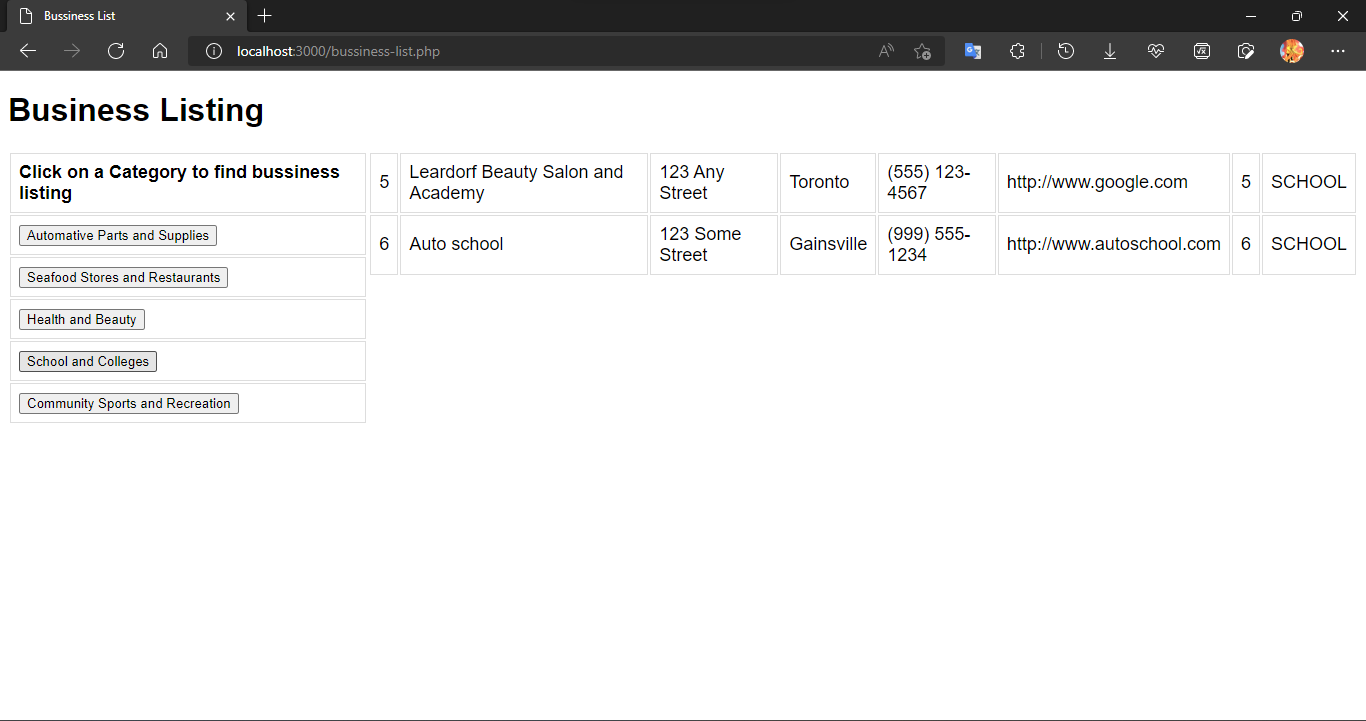
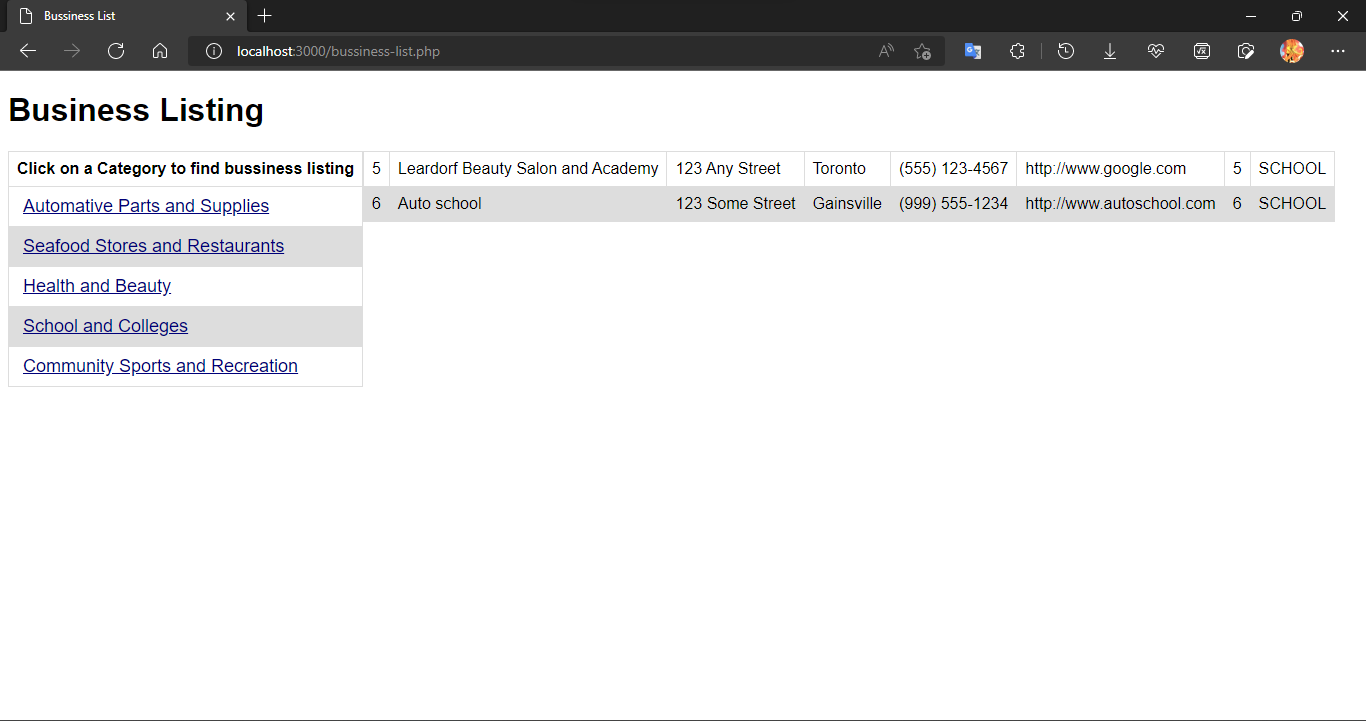
Lab 4 4.2 4.3 4.4 4.5

Changed region(s): [[0.0, 0.2136, 0.9839, 0.5798]]

diff --git a/Lab 04/4.4/business.php b/Lab 04/4.4/business.php
@@ -5,14 +5,14 @@
     <title>Business Registration</title>
 </head>
 <?php
+session_start();
 header('Content-Type: text/html; charset=utf-8');
 $conn = mysqli_connect('localhost', 'root', '123456', 'business_service') or die('Error');
 mysqli_set_charset($conn, "utf8");
-$id = 1;
 $message = '';
 $db = $conn;
 $tableName = "Categories";
-$columns = "Title";
+$columns = ['CategoryID', 'Title'];
 $fetchData = fetch_data($db, $tableName, $columns);
 function fetch_data($db, $tableName, $columns)
 {
@@ -21,8 +21,8 @@ function fetch_data($db, $tableName, $columns)
     } elseif (empty($tableName)) {
         $msg = "Table Name is empty";
     } else {
-
-        $query = "SELECT " . $columns . " FROM $tableName";
+        $columnName = implode(', ', $columns);
+        $query = "SELECT " . $columnName . " FROM $tableName";
         $result = $db->query($query);
 
         if ($result == true) {
@@ -45,22 +45,18 @@ if (isset($_POST['button'])) {
     $telephone = trim($_POST['Telephone']);
     $url = trim($_POST['URL']);
     $sql = "INSERT INTO Businesses(Name, Address, City, Telephone, URL)
-            VALUES ('$name', '$address', '$city', '$telephone', '$url')";
+        VALUES ('$name', '$address', '$city', '$telephone', '$url')";
+    mysqli_query($conn, $sql);
     if (!empty($_POST['category'])) {
         $array = $_POST['category'];
-        foreach($array as $selected) {
-            $sql2 = "SELECT CategoryID FROM Categories WHERE Title = '$selected'";
-            $sql3 = "SELECT BusinessID FROM Businesses";
-            $result1 = $db->query($sql2);
-            $result2 = $db->query($sql3);
-            $row1 = mysqli_fetch_array($result1, MYSQLI_NUM);
+        foreach ($array as $selected) {
+            $sql2 = "SELECT BusinessID FROM Businesses WHERE  Telephone = '$telephone'";
+            $result2 = $db->query($sql2);
             $row2 = mysqli_fetch_array($result2, MYSQLI_NUM);
-            $businessID = sizeof($row2) + 1;
-            $categoryID = $row1;
-            $sql4 = "INSERT INTO Biz_Categories VALUES('$businessID', '$categoryID[0]')";
-            if (mysqli_query($conn, $sql) && mysqli_query($conn, $sql4)) {
-                $message = "Insert success!";
-                $id++;
+            $businessID = $row2;
+            $sql4 = "INSERT INTO Biz_Categories VALUES('$businessID[0]','$selected')";
+            if (mysqli_query($conn, $sql4)) {
+                $message = "Record inserted as show below";
             } else {
                 $message = "Insert fail!";
             }
@@ -69,8 +65,13 @@ if (isset($_POST['button'])) {
         $message = "Please select the category.";
     }
 }
+
 ?>
 <style>
+    * {
+        font-family: arial, sans-serif;
+    }
+
     html,
     body {
         min-height: 100%;
@@ -83,13 +84,13 @@ if (isset($_POST['button'])) {
 
     label,
     h1,
-    span {
-        font-family: arial, sans-serif;
+    p {
         font-weight: 400;
         margin: 15px 0;
     }
 
     .resgistrator {
+        width: 600px;
         box-sizing: border-box;
         border: 2px solid black;
         margin-right: 50px;
@@ -97,24 +98,11 @@ if (isset($_POST['button'])) {
     }
 
     .categories {
-        box-sizing: border-box;
-        margin: 50px 0 0 50px;
-        width: 430px;
-        height: 150px;
-        font-size: large;
-        font-weight: 100;
-        font-family: arial, sans-serif;
+        position: relative;
+        font-family: Arial;
+        margin: 50px;
     }
 
-    .categories-list {
-        height: 100px;
-        width: 400px;
-        overflow-y: scroll;
-        overflow-x: hidden;
-        margin: 18px;
-        padding-bottom: 16px;
-        border: 2px solid black;
-    }
 
     option {
         list-style-type: none;
@@ -127,7 +115,6 @@ if (isset($_POST['button'])) {
         display: inline-block;
         color: black
     }
-
     button {
         width: 150px;
         padding: 10px;
@@ -136,36 +123,78 @@ if (isset($_POST['button'])) {
         -webkit-border-radius: 5px;
         -moz-border-radius: 5px;
         border-radius: 5px;
-        background-color: #095484;
+        background-color: #3fabda;
         font-size: 16px;
         color: #fff;
         cursor: pointer;
     }
 
+    button:hover {
+        opacity: 0.7;
+    }
+
+    a {
+        width: 150px;
+        padding: 10px;
+        border: none;
+        margin: 50px;
+        -webkit-border-radius: 5px;
+        -moz-border-radius: 5px;
+        border-radius: 5px;
+        background-color: #3fabda;
+        text-decoration: none;
+        font-size: 16px;
+        color: #fff;
+        cursor: pointer;
+    }
+
+    a:hover {
+        opacity: 0.7;
+    }
+
     input {
-        width: 400px;
-        height: 26px;
-        background-color: #cccccc;
-        margin-bottom: 5px;
+        width: 70%;
+        height: auto;
+        border: 2px solid #ccc;
+        border-radius: 4px;
+        padding: 7px 0px;
+    }
+
+    input:focus {
+        outline-width: 1px;
+        outline-color: #3fabda;
     }
 </style>
 
 <body>
     <h1>Business Registratiton</h1>
-    <h2><?php echo $message ?></h2>
-    <span>Click on one, or control click on multiple categories</span>
+    <p><?php echo $message ?></p>
+
     <?php echo $deleteMsg ?? ''; ?>
 
     <div class="container">
         <div class="categories">
+            <?php if (isset($_POST['category'])) { ?>
+                <p>Selected category values are highlighted</p>
+            <?php } else { ?>
+
+                <p>Click one, or control click on multiple categories</p>
+            <?php } ?>
             <form method="post">
-                <select name="category" class="categories-list" multiple size=4>
+                <select name="category[]" class="categories-list" multiple size=4>
                     <?php
                     if (is_array($fetchData)) {
+                        $array = [];
+                        if (isset($_POST['category'])) {
+                            $array = $_POST['category'];
+                        }
+                        foreach ($fetchData as $data) { ?>
+                            <?php if (in_array($data['CategoryID'], $array)) { ?>
 
-                        foreach ($fetchData as $data) {
-                    ?>
-                            <option value="<?php echo $data['Title'] ?>"><?php echo $data['Title'] ?? ''; ?></option>
+                                <option selected="true" value="<?php echo $data['CategoryID'] ?>"><?php echo $data['Title'] ?? ''; ?></option>
+                            <?php  } else { ?>
+                                <option value="<?php echo $data['CategoryID'] ?>"><?php echo $data['Title'] ?? ''; ?></option>
+                            <?php } ?>
                         <?php
                         }
                     } else { ?>
@@ -175,20 +204,25 @@ if (isset($_POST['button'])) {
                             </td>
                         <tr>
                         <?php
-                    } ?>
+                    }
+                        ?>
                 </select>
         </div>
         <div class="resgistrator">
             <ul>
-                <li><label>Business Name: </label> <input type="text" name="Name" value=""></li>
-                <li><label>Address: </label> <input type="text" name="Address" value=""></li>
-                <li><label>City: </label> <input type="text" name="City" value=""></li>
-                <li><label>Telephone: </label> <input type="text" name="Telephone" value=""></li>
-                <li><label>URL: </label> <input type="text" name="URL" value=""></li>
+                <li><label>Business Name: </label> <input type="text" name="Name" value="<?php echo isset($_POST['Name']) ? htmlspecialchars($_POST['Name'], ENT_QUOTES) : ''; ?>"></li>
+                <li><label>Address: </label> <input type="text" name="Address" value="<?php echo isset($_POST['Address']) ? htmlspecialchars($_POST['Address'], ENT_QUOTES) : ''; ?>"></li>
+                <li><label>City: </label> <input type="text" name="City" value="<?php echo isset($_POST['City']) ? htmlspecialchars($_POST['City'], ENT_QUOTES) : ''; ?>"></li>
+                <li><label>Telephone: </label> <input type="text" name="Telephone" value="<?php echo isset($_POST['Telephone']) ? htmlspecialchars($_POST['Telephone'], ENT_QUOTES) : ''; ?>"></li>
+                <li><label>URL: </label> <input type="text" name="URL" value="<?php echo isset($_POST['URL']) ? htmlspecialchars($_POST['URL'], ENT_QUOTES) : ''; ?>"></li>
             </ul>
         </div>
     </div>
-    <button type="submit" name="button" value="Button">Add Business</button>
+    <?php if (isset($_POST['category'])) { ?>
+        <a href="http://localhost:3000/business.php">Add Another Business </a>
+    <?php } else { ?>
+        <button type="submit" name="button" value="Button">Add Business</button>
+    <?php } ?>
     </form>
 </body>
 

diff --git a/Lab 04/4.5/bussiness-list.php b/Lab 04/4.5/bussiness-list.php
@@ -72,8 +72,8 @@ function fetch_data3($db, $tableName3, $columns3)
 }
 ?>
 <style>
-    h1 {
-        font-family: arial, sans-serif;
+    * {
+        font-family: Arial, sans-serif;
     }
 
     .container {
@@ -83,7 +83,6 @@ function fetch_data3($db, $tableName3, $columns3)
 
     .categories {
         float: left;
-        font-family: arial, sans-serif;
         border-collapse: collapse;
     }
 
@@ -91,13 +90,32 @@ function fetch_data3($db, $tableName3, $columns3)
         float: right;
     }
 
+    table {
+        border-collapse: collapse;
+        width: 100%;
+    }
+
     td,
     th {
-        font-family: Arial, sans-serif;
         border: 1px solid #dddddd;
         text-align: left;
         padding: 8px;
+    }
+
+    tr:nth-child(even) {
+        background-color: #dddddd;
+    }
+    button {
+        border: none;
+        background-color: transparent;
+        text-decoration: underline;
         font-size: large;
+        color: #000079;
+        cursor: pointer;
+        transition: opacity 0.2s ease;
+    }
+    button:hover{
+        opacity: 0.5;
     }
 </style>
 

diff --git a/Lab 04/4.3/category.php b/Lab 04/4.3/category.php
@@ -55,7 +55,8 @@
     <script type="text/javascript">
     </script>
     <style>
-        h1, h2{
+        h1,
+        h2 {
             font-family: arial, sans-serif;
         }
 
@@ -68,9 +69,14 @@
         input {
             width: 100%;
             height: auto;
-            border: 1px solid #ccc;
+            border: 2px solid #ccc;
             border-radius: 4px;
             padding: 7px 0px;
+        }
+
+        input:focus {
+            outline-width: 1px;
+            outline-color: #3fabda;
         }
 
         td,
@@ -85,7 +91,17 @@
         }
 
         button {
-            margin: 10px;
+            width: 150px;
+            padding: 10px;
+            border: none;
+            margin: 10px 0px 0px 10px;
+            -webkit-border-radius: 5px;
+            -moz-border-radius: 5px;
+            border-radius: 5px;
+            background-color: #095484;
+            font-size: 16px;
+            color: #fff;
+            cursor: pointer;
         }
     </style>
 </head>
